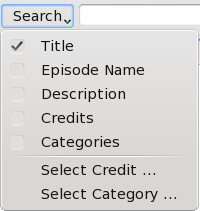
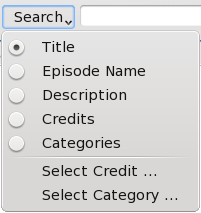
Make the search filter options exclusive

diff --git a/help/en/searching.html b/help/en/searching.html
@@ -19,9 +19,9 @@ pull-down menu:<p>
 <img src="search_filter_options.png">
 </center><p>
 
-Any combination of <b>Title</b>, <b>Episode Name</b>,
+Only one of <b>Title</b>, <b>Episode Name</b>,
 <b>Description</b>, <b>Credits</b>, and <b>Categories</b> can
-be used to customize the search.<p>
+be used to conduct the search.<p>
 
 <b>Select Credit</b> and <b>Select Category</b> can be used to
 select a specific item from the programme details that have been

diff --git a/src/mainwindow.cpp b/src/mainwindow.cpp
@@ -199,7 +199,11 @@ MainWindow::MainWindow(QWidget *parent)
     actionShowFailedMatches->setChecked(true);
     action7DayOutlook->setChecked(settings.value(QLatin1String("outlook7days"), false).toBool());
     actionMultiChannel->setChecked(settings.value(QLatin1String("allchannels"), false).toBool());
-    m_programmeModel->setFilterOptions(settings.value(QLatin1String("filteroptions"), TvProgramme::SearchTitle).toInt());
+    int filterType = settings.value(QLatin1String("filtertype"), TvProgramme::SearchTitle).toInt();
+    if (filterType < TvProgramme::SearchFirst ||
+            filterType > TvProgramme::SearchLast)
+        filterType = TvProgramme::SearchTitle;
+    m_programmeModel->setFilterType(TvProgramme::SearchType(filterType));
     settings.endGroup();
 
     toolBar->addSeparator();
@@ -221,28 +225,33 @@ MainWindow::MainWindow(QWidget *parent)
     menu->addAction(actionSearchFilterSelectCategory);
     searchOptions->setMenu(menu);
 
-    int options = m_programmeModel->filterOptions();
-    actionSearchFilterTitle->setChecked
-        ((options & TvProgramme::SearchTitle) != 0);
-    actionSearchFilterEpisodeName->setChecked
-        ((options & TvProgramme::SearchSubTitle) != 0);
-    actionSearchFilterDescription->setChecked
-        ((options & TvProgramme::SearchDescription) != 0);
-    actionSearchFilterCredits->setChecked
-        ((options & TvProgramme::SearchCredits) != 0);
-    actionSearchFilterCategories->setChecked
-        ((options & TvProgramme::SearchCategories) != 0);
+    m_searchActionGroup = new QActionGroup(this);
+    m_searchActionGroup->addAction(actionSearchFilterTitle);
+    m_searchActionGroup->addAction(actionSearchFilterEpisodeName);
+    m_searchActionGroup->addAction(actionSearchFilterDescription);
+    m_searchActionGroup->addAction(actionSearchFilterCredits);
+    m_searchActionGroup->addAction(actionSearchFilterCategories);
+    connect(m_searchActionGroup, SIGNAL(triggered(QAction *)),
+            this, SLOT(searchFilterOptionsChanged()));
 
-    connect(actionSearchFilterTitle, SIGNAL(toggled(bool)),
-            this, SLOT(searchFilterOptionsChanged()));
-    connect(actionSearchFilterEpisodeName, SIGNAL(toggled(bool)),
-            this, SLOT(searchFilterOptionsChanged()));
-    connect(actionSearchFilterDescription, SIGNAL(toggled(bool)),
-            this, SLOT(searchFilterOptionsChanged()));
-    connect(actionSearchFilterCredits, SIGNAL(toggled(bool)),
-            this, SLOT(searchFilterOptionsChanged()));
-    connect(actionSearchFilterCategories, SIGNAL(toggled(bool)),
-            this, SLOT(searchFilterOptionsChanged()));
+    switch (m_programmeModel->filterType()) {
+    case TvProgramme::SearchTitle:
+        actionSearchFilterTitle->setChecked(true);
+        break;
+    case TvProgramme::SearchEpisodeName:
+        actionSearchFilterEpisodeName->setChecked(true);
+        break;
+    case TvProgramme::SearchDescription:
+        actionSearchFilterDescription->setChecked(true);
+        break;
+    case TvProgramme::SearchCredits:
+        actionSearchFilterCredits->setChecked(true);
+        break;
+    case TvProgramme::SearchCategories:
+        actionSearchFilterCategories->setChecked(true);
+        break;
+    }
+
     connect(actionSearchFilterSelectCategory, SIGNAL(triggered()),
             this, SLOT(selectSearchCategory()));
     connect(actionSearchFilterSelectCredit, SIGNAL(triggered()),
@@ -284,8 +293,9 @@ MainWindow::~MainWindow()
                       action7DayOutlook->isChecked());
     settings.setValue(QLatin1String("allchannels"),
                       actionMultiChannel->isChecked());
-    settings.setValue(QLatin1String("filteroptions"),
-                      m_programmeModel->filterOptions());
+    settings.setValue(QLatin1String("filtertype"),
+                      m_programmeModel->filterType());
+    settings.remove(QLatin1String("filteroptions"));
     settings.endGroup();
 
     settings.sync();
@@ -653,34 +663,22 @@ void MainWindow::searchFilterOptionsChanged()
     if (m_updatingFilter)
         return;
 
-    int options = m_programmeModel->filterOptions();
+    TvProgramme::SearchType type;
 
     if (actionSearchFilterTitle->isChecked())
-        options |= TvProgramme::SearchTitle;
+        type = TvProgramme::SearchTitle;
+    else if (actionSearchFilterEpisodeName->isChecked())
+        type = TvProgramme::SearchEpisodeName;
+    else if (actionSearchFilterDescription->isChecked())
+        type = TvProgramme::SearchDescription;
+    else if (actionSearchFilterCredits->isChecked())
+        type = TvProgramme::SearchCredits;
+    else if (actionSearchFilterCategories->isChecked())
+        type = TvProgramme::SearchCategories;
     else
-        options &= ~TvProgramme::SearchTitle;
+        type = TvProgramme::SearchTitle;
 
-    if (actionSearchFilterEpisodeName->isChecked())
-        options |= TvProgramme::SearchSubTitle;
-    else
-        options &= ~TvProgramme::SearchSubTitle;
-
-    if (actionSearchFilterDescription->isChecked())
-        options |= TvProgramme::SearchDescription;
-    else
-        options &= ~TvProgramme::SearchDescription;
-
-    if (actionSearchFilterCredits->isChecked())
-        options |= TvProgramme::SearchCredits;
-    else
-        options &= ~TvProgramme::SearchCredits;
-
-    if (actionSearchFilterCategories->isChecked())
-        options |= TvProgramme::SearchCategories;
-    else
-        options &= ~TvProgramme::SearchCategories;
-
-    m_programmeModel->setFilterOptions(options);
+    m_programmeModel->setFilterType(type);
     programmes->resizeRowsToContents();
 }
 
@@ -691,13 +689,9 @@ void MainWindow::selectSearchCategory()
     if (selector.exec() == QDialog::Accepted) {
         m_updatingFilter = true;
         m_searchFilter->setText(selector.selectedCategory());
-        actionSearchFilterTitle->setChecked(false);
-        actionSearchFilterEpisodeName->setChecked(false);
-        actionSearchFilterDescription->setChecked(false);
-        actionSearchFilterCredits->setChecked(false);
         actionSearchFilterCategories->setChecked(true);
         m_updatingFilter = false;
-        m_programmeModel->setFilterOptions
+        m_programmeModel->setFilterType
             (TvProgramme::SearchCategories, selector.selectedCategory());
         programmes->resizeRowsToContents();
     }
@@ -711,13 +705,9 @@ void MainWindow::selectSearchCredit()
     if (selector.exec() == QDialog::Accepted) {
         m_updatingFilter = true;
         m_searchFilter->setText(selector.selectedCategory());
-        actionSearchFilterTitle->setChecked(false);
-        actionSearchFilterEpisodeName->setChecked(false);
-        actionSearchFilterDescription->setChecked(false);
         actionSearchFilterCredits->setChecked(true);
-        actionSearchFilterCategories->setChecked(false);
         m_updatingFilter = false;
-        m_programmeModel->setFilterOptions
+        m_programmeModel->setFilterType
             (TvProgramme::SearchCredits, selector.selectedCategory());
         programmes->resizeRowsToContents();
     }

diff --git a/src/tvprogramme.cpp b/src/tvprogramme.cpp
@@ -698,7 +698,7 @@ uint TvProgramme::hashSearchString(const QString &str)
     return 0;
 }
 
-bool TvProgramme::containsSearchString(uint hashval, const QString &str, int options) const
+bool TvProgramme::containsSearchString(uint hashval, const QString &str, SearchType type) const
 {
     Q_UNUSED(hashval);
 #if 0
@@ -706,24 +706,19 @@ bool TvProgramme::containsSearchString(uint hashval, const QString &str, int opt
             (1U << (hashval % HashBitsPerWord))) == 0)
         return false;
 #endif
-    return containsSearchString(str, options);
+    return containsSearchString(str, type);
 }
 
-bool TvProgramme::containsSearchString(const QString &str, int options) const
+bool TvProgramme::containsSearchString(const QString &str, SearchType type) const
 {
-    if (options & SearchTitle) {
-        if (containsSearch(str, m_title))
-            return true;
-    }
-    if (options & SearchSubTitle) {
-        if (containsSearch(str, m_subTitle))
-            return true;
-    }
-    if (options & SearchDescription) {
-        if (containsSearch(str, m_description))
-            return true;
-    }
-    if (options & SearchCredits) {
+    switch (type) {
+    case SearchTitle:
+        return containsSearch(str, m_title);
+    case SearchEpisodeName:
+        return containsSearch(str, m_subTitle);
+    case SearchDescription:
+        return containsSearch(str, m_description);
+    case SearchCredits: {
         if (containsSearch(str, m_directors))
             return true;
         if (containsSearch(str, m_actors))
@@ -736,10 +731,9 @@ bool TvProgramme::containsSearchString(const QString &str, int options) const
             if (containsSearch(str, it.value()))
                 return true;
         }
-    }
-    if (options & SearchCategories) {
-        if (containsSearch(str, m_categories))
-            return true;
+        return false; }
+    case SearchCategories:
+        return containsSearch(str, m_categories);
     }
     return false;
 }

diff --git a/src/tvprogrammemodel.cpp b/src/tvprogrammemodel.cpp
@@ -27,7 +27,7 @@ TvProgrammeModel::TvProgrammeModel(QObject *parent)
     , m_bookmarkIcon(QLatin1String(":/images/bookmark.png"))
     , m_tickIcon(QLatin1String(":/images/tick.png"))
     , m_returnedIcon(QLatin1String(":/images/ledred.png"))
-    , m_filterOptions(TvProgramme::SearchTitle)
+    , m_filterType(TvProgramme::SearchTitle)
 {
     m_bookmarkIcon = m_bookmarkIcon.scaled(16, 16, Qt::IgnoreAspectRatio, Qt::SmoothTransformation);
     m_tickIcon = m_tickIcon.scaled(16, 16, Qt::IgnoreAspectRatio, Qt::SmoothTransformation);
@@ -193,20 +193,20 @@ void TvProgrammeModel::setFilter(const QString &str)
     }
 }
 
-void TvProgrammeModel::setFilterOptions(int options)
+void TvProgrammeModel::setFilterType(TvProgramme::SearchType type)
 {
-    if (m_filterOptions != options) {
-        m_filterOptions = options;
+    if (m_filterType != type) {
+        m_filterType = type;
         if (!m_filter.isEmpty())
             updateFilter();
     }
 }
 
-void TvProgrammeModel::setFilterOptions(int options, const QString &str)
+void TvProgrammeModel::setFilterType(TvProgramme::SearchType type, const QString &str)
 {
-    if (m_filter != str || m_filterOptions != options) {
+    if (m_filter != str || m_filterType != type) {
         m_filter = str;
-        m_filterOptions = options;
+        m_filterType = type;
         updateFilter();
     }
 }
@@ -220,7 +220,7 @@ void TvProgrammeModel::updateFilter()
         uint hashval = TvProgramme::hashSearchString(m_filter);
         for (int index = 0; index < m_unfilteredProgrammes.size(); ++index) {
             TvProgramme *prog = m_unfilteredProgrammes.at(index);
-            if (prog->containsSearchString(hashval, m_filter, m_filterOptions))
+            if (prog->containsSearchString(hashval, m_filter, m_filterType))
                 m_programmes.append(prog);
         }
     }

diff --git a/src/tvprogramme.h b/src/tvprogramme.h
@@ -85,15 +85,18 @@ public:
 
     static uint hashSearchString(const QString &str);
 
-    enum {
-        SearchTitle         = (1 << 0),
-        SearchSubTitle      = (1 << 1),
-        SearchDescription   = (1 << 2),
-        SearchCredits       = (1 << 3),
-        SearchCategories    = (1 << 4)
+    enum SearchType
+    {
+        SearchTitle,
+        SearchEpisodeName,
+        SearchDescription,
+        SearchCredits,
+        SearchCategories,
+        SearchFirst = SearchTitle,
+        SearchLast = SearchCategories
     };
 
-    bool containsSearchString(uint hashval, const QString &str, int options) const;
+    bool containsSearchString(uint hashval, const QString &str, SearchType type) const;
 
     void updateCategorySet(QSet<QString> &set) const;
     void updateCreditSet(QSet<QString> &set) const;
@@ -151,7 +154,7 @@ private:
     void createSubstringHash();
     void updateHash(const QString &str);
     void updateHash(const QStringList &list);
-    bool containsSearchString(const QString &str, int options) const;
+    bool containsSearchString(const QString &str, SearchType type) const;
 
     inline bool containsSearch(const QString &str, const QString &within) const
     {

diff --git a/src/tvprogrammemodel.h b/src/tvprogrammemodel.h
@@ -51,10 +51,10 @@ public:
     QString filter() const { return m_filter; }
     void setFilter(const QString &str);
 
-    int filterOptions() const { return m_filterOptions; }
-    void setFilterOptions(int options);
+    TvProgramme::SearchType filterType() const { return m_filterType; }
+    void setFilterType(TvProgramme::SearchType type);
 
-    void setFilterOptions(int options, const QString &str);
+    void setFilterType(TvProgramme::SearchType type, const QString &str);
 
 private:
     QList<TvProgramme *> m_unfilteredProgrammes;
@@ -65,7 +65,7 @@ private:
     QPixmap m_tickIcon;
     QPixmap m_returnedIcon;
     QString m_filter;
-    int m_filterOptions;
+    TvProgramme::SearchType m_filterType;
 
     void updateFilter();
 };

diff --git a/src/mainwindow.h b/src/mainwindow.h
@@ -21,6 +21,7 @@
 #include <QtGui/qmainwindow.h>
 #include <QtGui/qprogressbar.h>
 #include <QtGui/qlineedit.h>
+#include <QtGui/qactiongroup.h>
 #include "ui_mainwindow.h"
 #include "tvchannellist.h"
 #include "tvchannelmodel.h"
@@ -101,6 +102,7 @@ private:
     qreal m_fontMultiplier;
     HelpBrowser *m_helpBrowser;
     QLineEdit *m_searchFilter;
+    QActionGroup *m_searchActionGroup;
 
     TvChannel::TimePeriods timePeriods() const;
     TvBookmark::MatchOptions matchOptions() const;
